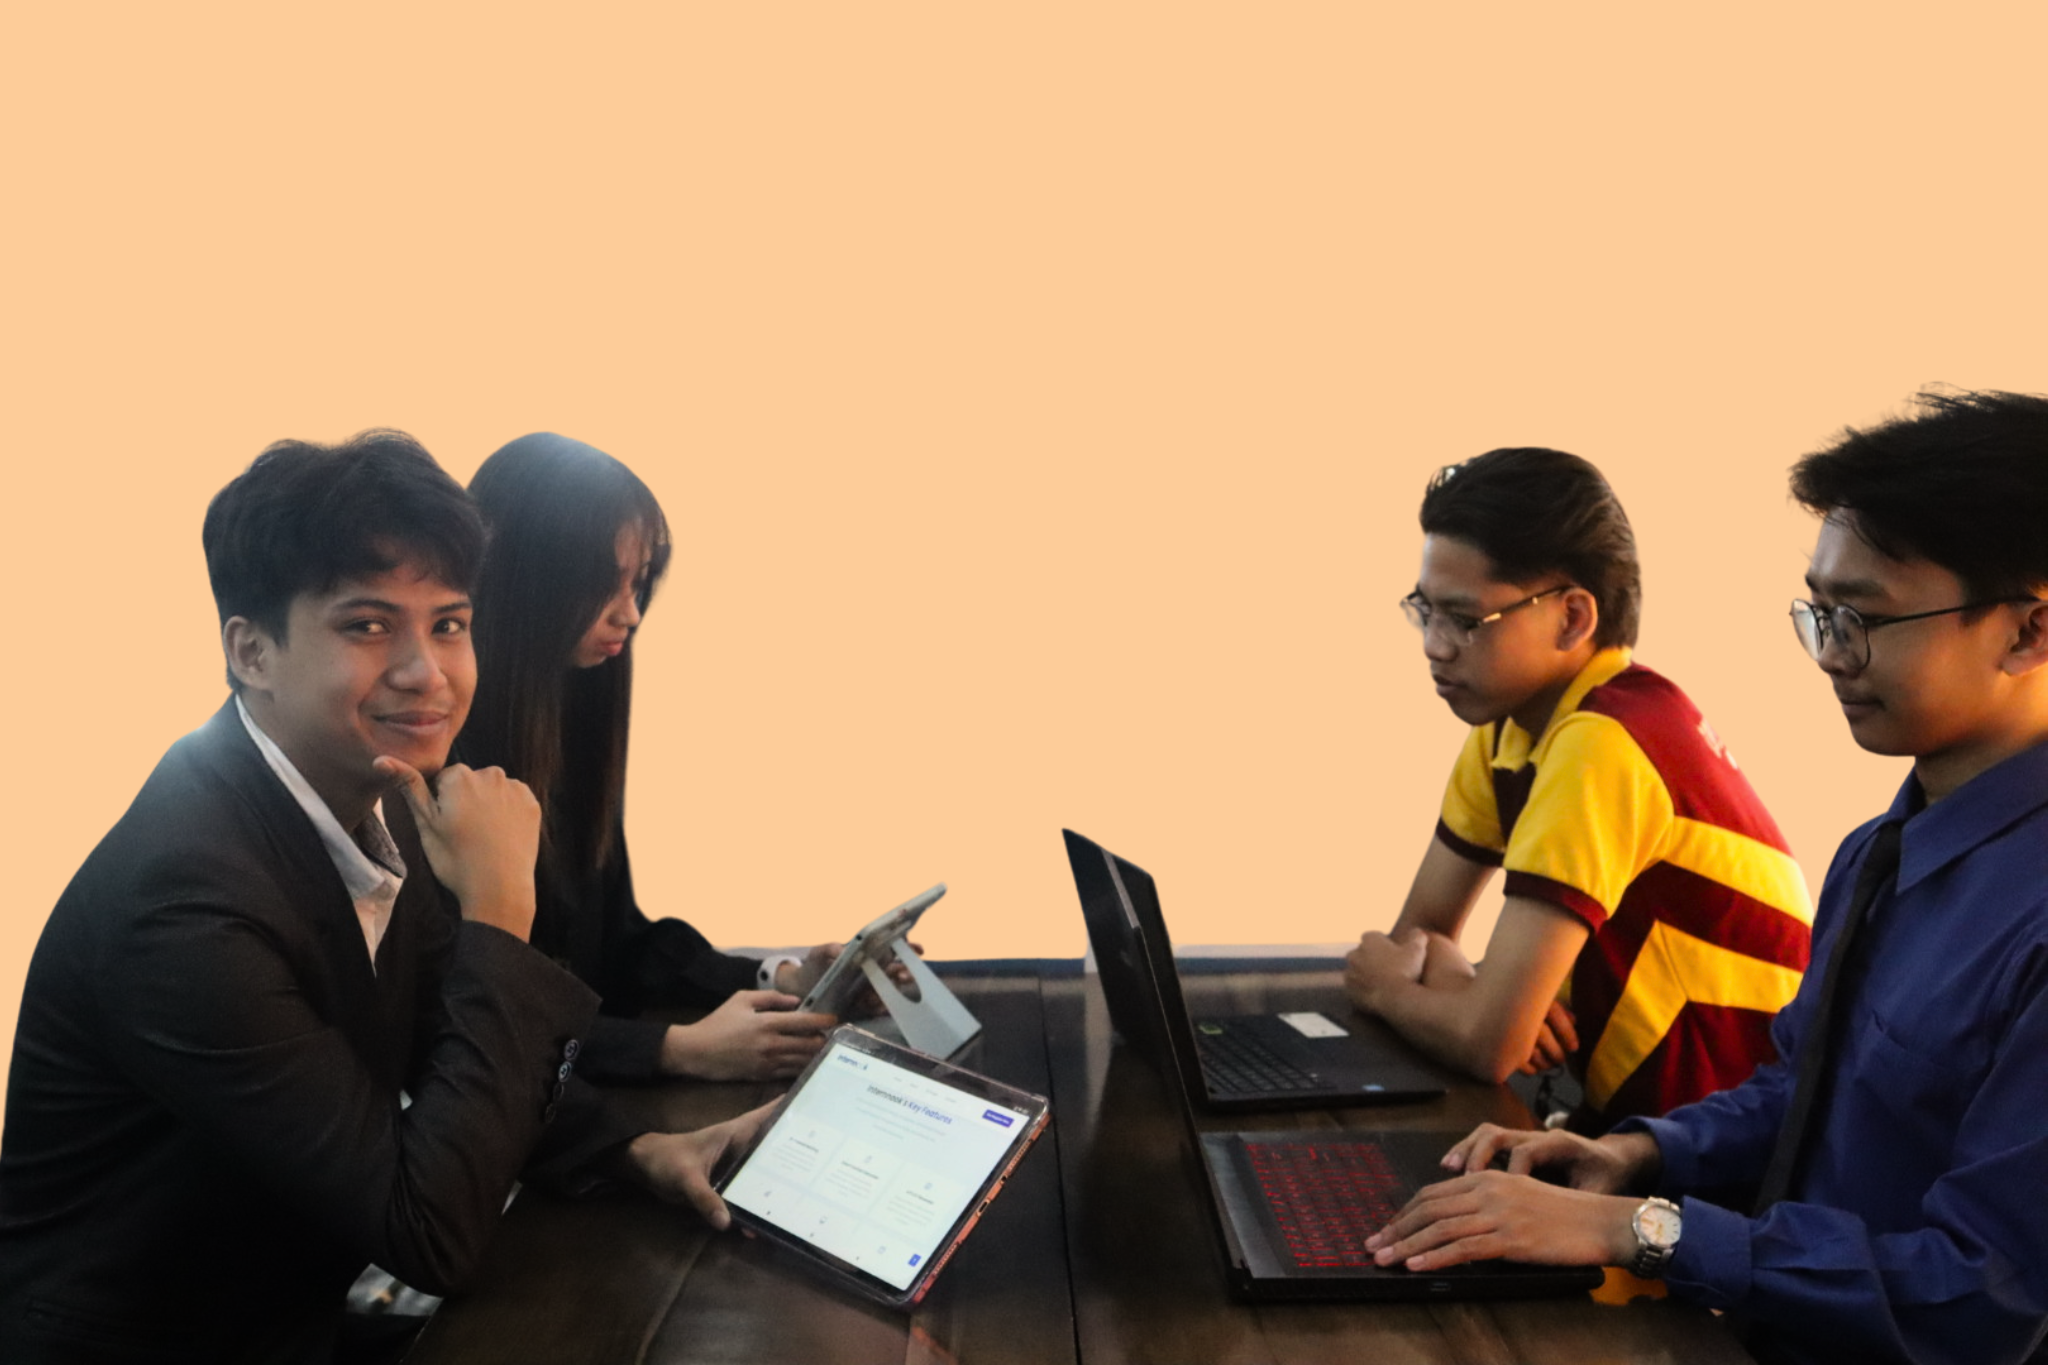
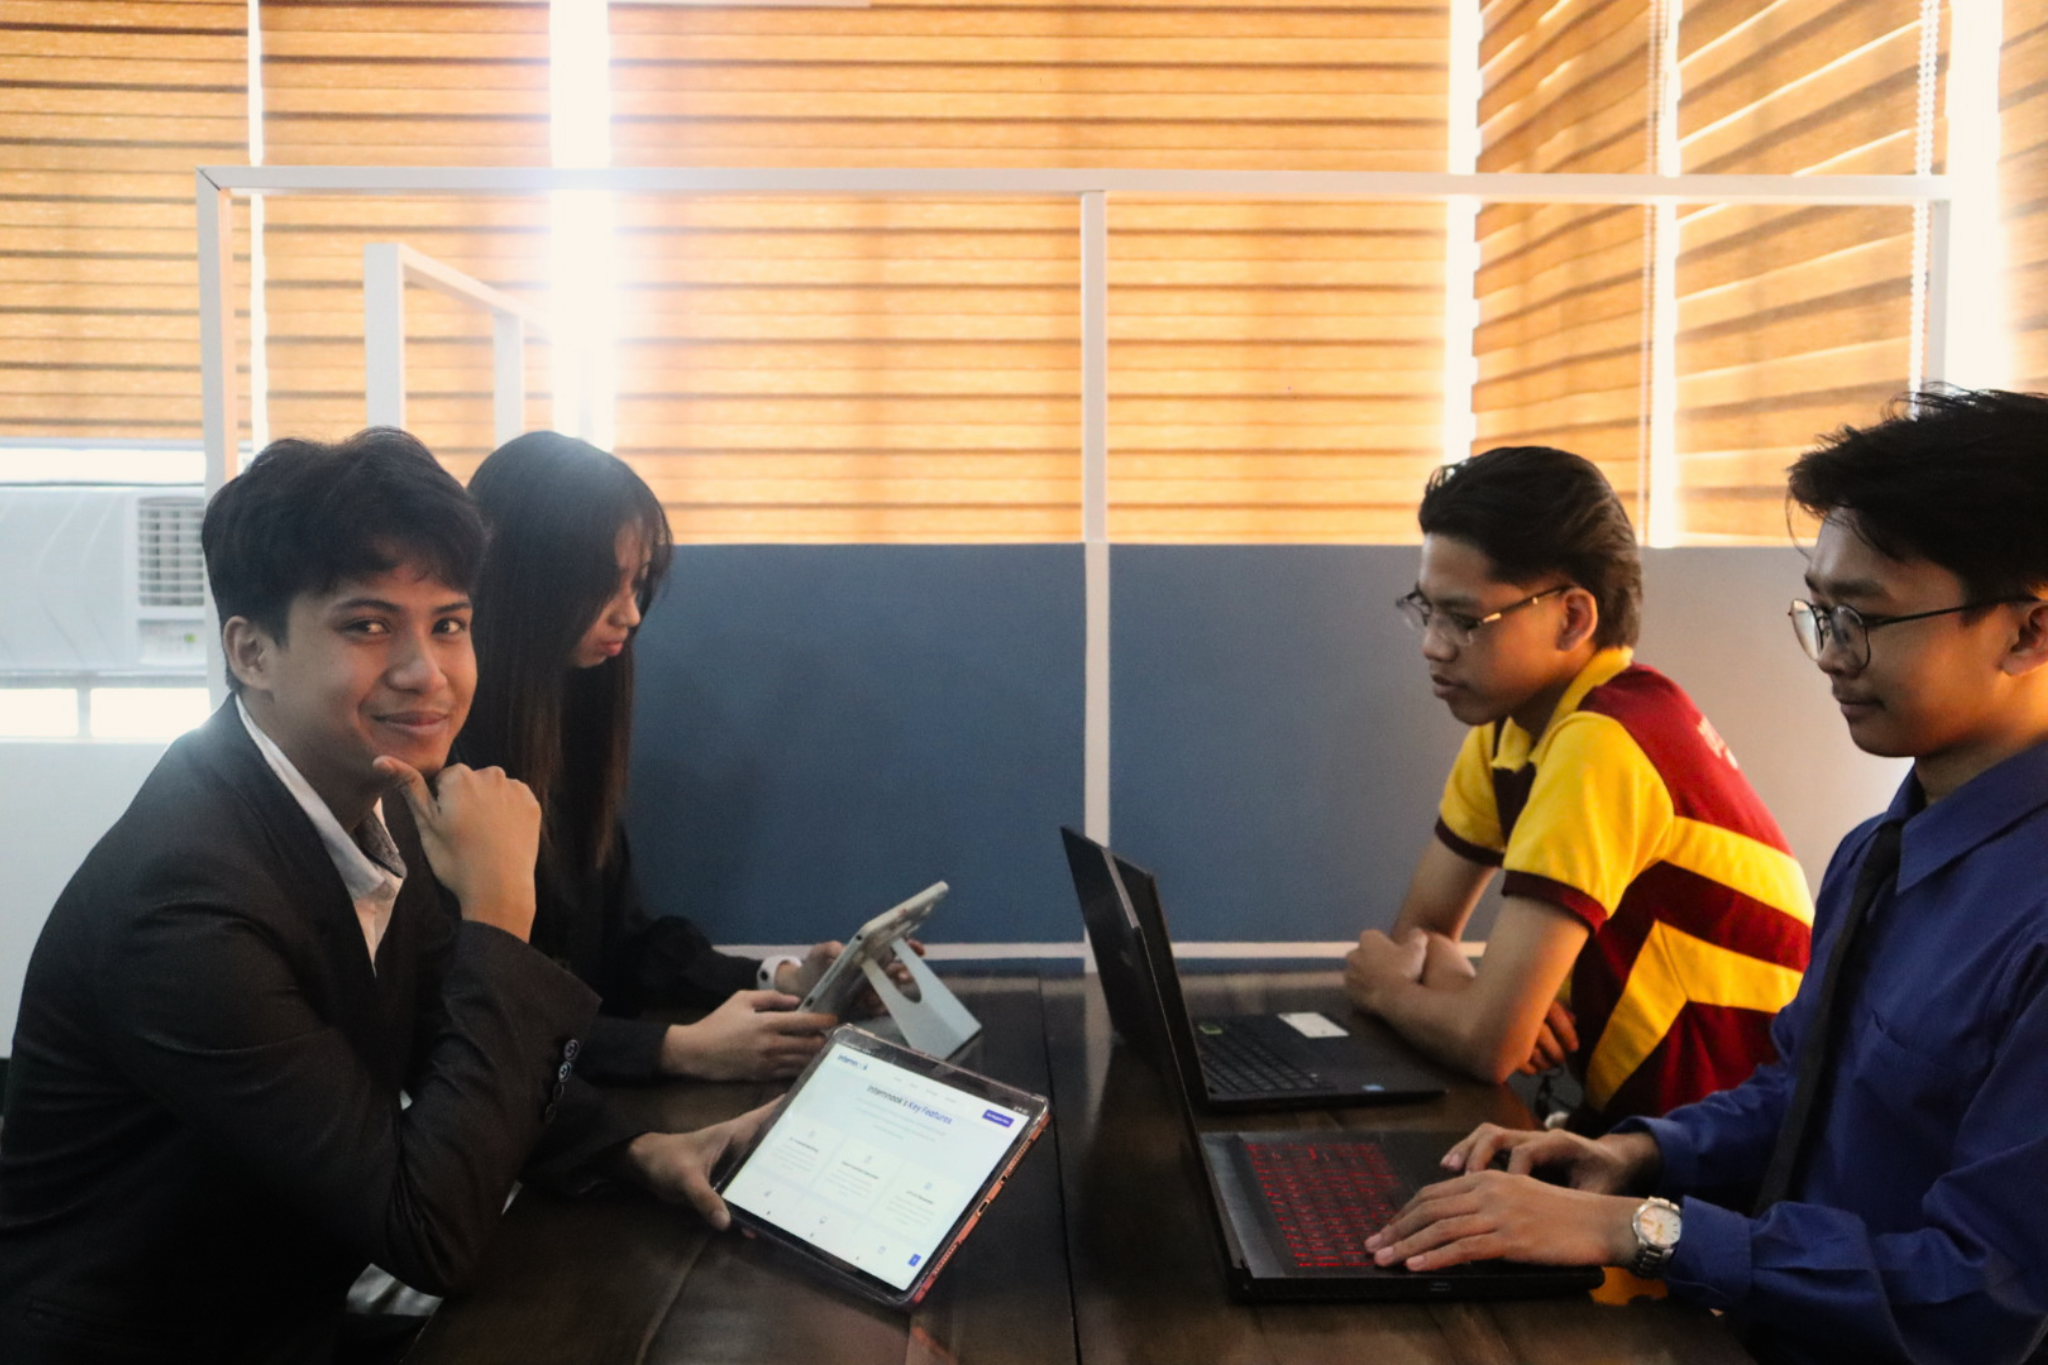
Update text

diff --git a/src/app/ui/pages/taglines.jsx b/src/app/ui/pages/taglines.jsx
@@ -13,7 +13,7 @@ export default function TaglinPages() {
               width={400}
               height={500}
               quality={100}
-              className="rounded-xl object-cover w-full h-full"
+              className=" object-cover w-full h-full"
             />
           </div>
           <Image
@@ -34,7 +34,7 @@ export default function TaglinPages() {
           />
         </div>
         <div className=" p-6 lg:p-10  max-w-md">
-          <h2 className="text-4xl font-bold text-[#FD7201] mt-2 italic">
+          <h2 className="text-5xl font-bold text-[#FD7201] mt-2 italic">
             “where dream jobs take root!”
           </h2>
           <p className="text-gray-700 mt-4">
@@ -78,7 +78,7 @@ export default function TaglinPages() {
       
       {/* <div className="absolute bottom-40 right-0 w-70 h-70 bg-orange-200 rounded-full hidden md:block z-0"></div>  */}
       <div className="p-6 lg:p-10  max-w-md" >
-          <h2 className="italic text-4xl font-bold text-[#1F628E] mt-2">
+          <h2 className="italic text-5xl font-bold text-[#1F628E] mt-2">
             “the smart way to look!”
           </h2>
           <p className="text-gray-700 mt-2">
@@ -120,7 +120,7 @@ export default function TaglinPages() {
           />
         </div>
         <div className="p-6 lg:p-10  max-w-md">
-          <h2 className="text-4xl font-bold text-[#FD7201] mt-2 italic">
+          <h2 className="text-5xl font-bold text-[#FD7201] mt-2 italic">
           “where students find their nook!”{" "}
           </h2>
           <p className="text-gray-700 mt-4">

diff --git a/src/app/ui/pages/about.jsx b/src/app/ui/pages/about.jsx
@@ -6,7 +6,7 @@ export default function AboutPage() {
     <>
       <section
         id="aboutPage"
-        className="flex flex-col md:flex-row items-center justify-center gap-8 px-6 py-25 bg-[#FFFFFF] relative"
+        className="flex flex-col md:flex-row items-center justify-center gap-8 px-6 py-25 bg-[#FDCC99] relative"
       >
         {/* <div className="grid grid-cols-1 gap-4 w-full md:w-1/2 ">
           <div className="col-span-1 row-span-2">
@@ -44,7 +44,7 @@ export default function AboutPage() {
             width={400}
             height={500}
             quality={100}
-            className="rounded-xl object-cover w-full h-full relative z-10"
+            className="rounded-3xl shadow-xl object-cover w-full h-full relative z-10"
           />
         </div>
       </div>
@@ -52,8 +52,8 @@ export default function AboutPage() {
 
         <div className="p-6 lg:p-10 max-w-md">
           <span className="text-[#8E8E8E] text-sm mt-2 py-2">About</span>
-          <h2 className="italic text-4xl font-extrabold text-[#135C9F] mt-2">
-            A Smart Internship
+          <h2 className=" text-6xl font-extrabold text-[#135C9F] mt-2">
+            A Smart Internship Hub
           </h2>
           <p className="text-gray-700 mt-2">
             that connects academic institutions, companies, and students

diff --git a/src/app/ui/pages/pre-register.jsx b/src/app/ui/pages/pre-register.jsx
@@ -44,10 +44,9 @@ export default function PreRegisterPage() {
     <>
       <section
         id="registerPage"
-<<<<
+
         className="bg-[#FFFFFF] w-full grid gap-10 py-5 px-7
-====
-         md:grid-cols-2 md:px-16 md:py-14"
+        md:grid-cols-2 md:px-16 md:py-14"
       >
         <div className="grid grid-cols-2 items-center">
           
@@ -73,7 +72,6 @@ export default function PreRegisterPage() {
                       className="w-12 h-12"
                     />
                   </div>
-``
                   <div className="bg-white h-14 -ml-2 flex justify-start items-center w-50 rounded-r-lg">
                     <p className="text-slate-700 font-semibold ml-5">
                     {data.description}

diff --git a/src/app/ui/pages/how-it-works.jsx b/src/app/ui/pages/how-it-works.jsx
@@ -41,11 +41,11 @@ export default function HowItWorksPage() {
                 <div className="flex items-center gap-6">
                   <span className="text-blue-600 font-bold text-lg">03</span>
                   <p className="text-gray-700 font-bold text-lg">
-                    Start Your JourneySign
+                    Start Your Journey
                   </p>
                 </div>
                 <p className="text-gray-700 mt-2 ml-12">
-                  Agreements digitally and begin your internship.
+                Sign Agreements digitally and begin your internship.
                 </p>
               </div>
             </div>
